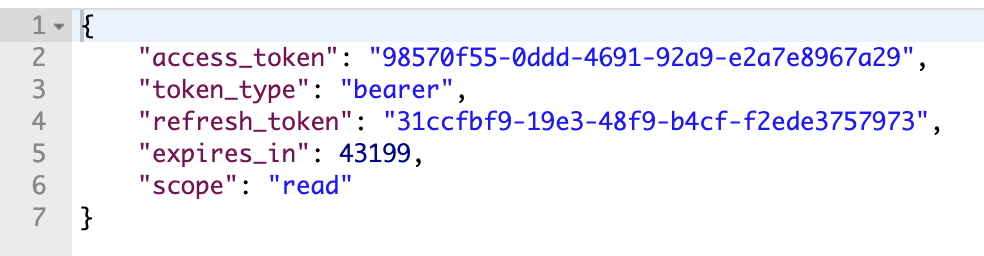
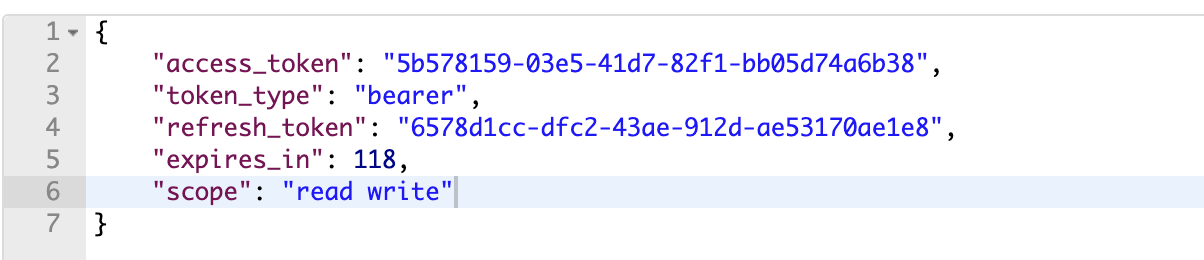
update post

diff --git a/source/_posts/oauth-spring-demo.md b/source/_posts/oauth-spring-demo.md
@@ -1,15 +1,15 @@
 ---
-title: OAuth 2 实战（一）- 使用 Spring Security OAuth 实现授权服务器
+title: OAuth 2 实战（一）- 使用 Spring Security 实现资源服务器和授权服务器
 date: 2019-10-29 21:53:19
 categories: 技术笔记
 tags: Authorization
 ---
 
-上两篇笔记把 OAuth 2.0 基本的理论知识都介绍了一下，在本篇笔记中，就让我们一起来用 Spring Security 实现一个简单的 OAuth 2.0 授权服务器吧。
+上两篇笔记把 OAuth 2.0 基本的理论知识都介绍了一下，在本篇笔记中，就让我们一起来实现一个 OAuth 2.0  服务器吧，简单起见，这个服务器既承担**资源服务器**的角色，也承担**授权服务器**的角色。
 
-Spring Security 是 Spring 全家桶中提供的与安全相关一套框架。它对一般 Web 应用都需要的认证和授权这一块的功能进行了封装，使得在一个 Spring 项目中可以非常简便又灵活地根据自身的安全性需求搭建出一套认证和授权流程。
+我们使用 Spring Security 作为底层支持。Spring Security 是 Spring 全家桶中提供的与安全相关一套框架。它对一般 Web 应用都需要的认证和授权这一块的功能进行了封装，使得在一个 Spring 项目中可以非常简便又灵活地根据自身的安全性需求搭建出一套认证和授权流程。
 
-Spring Security OAuth 则是 Spring Security 提供的对 OAuth 的支持（ OAuth 1 和 OAuth 2 都支持）。具体的内容，就让我们边写边说吧～
+Spring Security OAuth 则是 Spring Security 提供的对 OAuth 的支持（ OAuth 1 和 OAuth 2 都支持）。
 
 <!--more-->
 ---
@@ -85,8 +85,11 @@ public class SecurityConfig extends WebSecurityConfigurerAdapter {
 ```
 
 ---
-## Step 3 - 授权服务器配置
+
 我们知道 OAuth 2.0 中包含了两类服务器角色，一个是授权服务器，一个是资源服务器。针对这两类角色，Spring Security OAuth 分别提供了单独的启动和配置接口。
+
+---
+## Step 3 - 授权服务器配置
 
 通过使用 `@EnableAuthorizationServer` 注解，并实现 `AuthorizationServerConfigurer` 接口以完成授权服务器的配置，可以将应用实现为一个授权服务器。
 
@@ -173,8 +176,51 @@ public AuthenticationManager authenticationManagerBean() throws Exception {
 ```
 
 ---
-## Step 4 - 初见成果
-到此为止，我们实现一个授权服务器的基本工作就都完成了，此时启动应用，它就是一个运行中的授权服务器，默认运行在 `localhost:8080`。
+## Step 4 - 资源服务器配置
+通过使用 `@EnableResourceServer` 注解，并实现 `ResourceServerConfigurer` 接口以完成授权服务器的配置，可以将应用实现为一个资源服务器。
+
+资源服务器通过验证 Access Token 保护对资源的访问。因此，资源服务器最主要的配置内容就是访问控制。
+在 `ResourceServerConfigurer` 中提供了两个配置方法：
+* **ResourceServerSecurityConfigurer** - 用来配置所有跟资源服务器相关的内容，比如 `ResourceServerTokenServices`，`resourceId` 等。
+    * `ResourceServerTokenServices` - 对 Access Token 的解析和验证是由授权过程中非常重要的另一半工作，资源服务器将这部分工作交给 `ResourceServerTokenServices` 来做。对于资源服务器和授权服务器是同一台服务器的情况，我们基本不需要做额外的配置，Spring Security OAuth 默认注册了一个 `DefaultTokenServices` 实例。如果资源服务器和授权服务器不是同一台，那么我们就需要自己配置合适的 `ResourceServerTokenServices` 以保证资源服务器能“正确理解”授权服务器生成的 Access Token。`RemoteTokenServices` 是 Spring OAuth 提供的一个替代方式，它使得资源服务器可以向授权服务器发送一个 `/oauth/check_token` 请求来验证和解析 Access Token。
+* **HttpSecurity** - 用来配置对资源的访问控制规则。默认设置下，所有非 `/oauth/**` 路经下的资源都是被保护的。
+
+示例项目的资源服务器配置如下：
+```java
+@Configuration
+@EnableResourceServer
+public class ResourceServerConfig extends ResourceServerConfigurerAdapter {
+
+    private static final String DEMO_RESOURCE_ID = "demo";
+
+    @Override
+    public void configure(ResourceServerSecurityConfigurer resources) throws Exception {
+        resources.resourceId(DEMO_RESOURCE_ID).stateless(false);
+    }
+
+    @Override
+    public void configure(HttpSecurity http) throws Exception {
+        // @formatter:off
+        // Since we want the protected resources to be accessible in the UI as well we need
+        // session creation to be allowed (it's disabled by default in 2.0.6)
+        http.sessionManagement()
+                .sessionCreationPolicy(SessionCreationPolicy.IF_REQUIRED)
+            .and()
+            .requestMatchers()
+                .antMatchers("/api/**")
+            .and()
+            .authorizeRequests()
+                .antMatchers("/api/**").access("#oauth2.hasScope('read') or (!#oauth2.isOAuth() and hasRole('ROLE_USER'))");
+        // @formatter:on
+    }
+}
+```
+
+我们对 `/api/**` 路经下的资源进行了保护，只有拥有 `read` scope 的客户端才被允许访问。
+
+---
+## Step 5 - 初见成果
+到此为止，我们实现基本工作就都完成了，此时启动应用，它就是一个运行中的授权兼资源服务器，默认运行在 `localhost:8080`。
 
 ### Resource Owner Password 授权
 敲入如下命令，我们就可以以 Resource Owner Password 授权的方式来获得 Access Token：
@@ -191,6 +237,9 @@ curl -X POST \
 
 返回结果如下图所示：
 ![OAuth Password Grant Type Response Screenshot][1]
+
+接下来，我们就可以将返回的 Access Token 放到请求的 Authorization 首部，以 Bearer Token 的形式来访问资源：
+![OAuth Access Token Request][8]
 
 ---
 ### Authorization Code 授权
@@ -215,18 +264,30 @@ curl -X POST \
 
 ![Authorization Code Grant 5][6]
 
-之后客户端就可以使用授权码向授权服务器获取 Access Token。
-
-不过今天已经很晚啦，就把剩下的内容留到下一篇笔记吧～
+到目前为止，localhost:8081 还只是一个普通的 Spring Boot 项目，我们还没有将其实现为 OAuth 2.0 客户端，所以它还不知道要怎么获取 Access Token。
 
 ---
 
-嗷，看来不能在出去玩耍之前结束这个系列了呢。（都是拖延症惹的祸 (；´Д\`A)
+可是，此刻真的很想提前体验一把完整的 **获得授权 - 获取 Access Token - 访问资源** 的这个过程呢，没关系，我们还有 Postman。
+
+使用 Postman 向资源服务器请求资源，并选择认证模式为 OAuth 2，然后我们可以在 Get New Access Token 里配置获取 Token 需要的信息，如下所示：
+![Postman Get Access Token Configuration][9]
+
+点击 Request Token 获取 Access Token，然后发送请求，Postman 就可以作为一个 OAuth 2 客户端访问我们的资源服务器了。
+结果如下图所示：
+![Postman as OAuth 2 Client][10]
+
+---
+
+到此为止，我们的 OAuth 2 服务器已经运转起来，那么，OAuth 2 客户端又要如何实现呢？
+
+未完待续～
 
 ---
 
 **参考资料**
 * [Spring - OAuth 2 Developers Guide](https://projects.spring.io/spring-security-oauth/docs/oauth2.html)
+* [How to Secure REST API using Spring Security and OAuth2 – part 3](http://sivatechlab.com/secure-rest-api-using-spring-security-oauth2-part-3/)
 
   [1]: /uploads/images/oauth-password-response.png
   [2]: /uploads/images/oauth-code-grant-1.png
@@ -235,6 +296,9 @@ curl -X POST \
   [5]: /uploads/images/oauth-code-grant-4.png
   [6]: /uploads/images/oauth-code-grant-5.png
   [7]: /uploads/images/oauth-code-grant-6.png
+  [8]: /uploads/images/oauth-request-resource.png
+  [9]: /uploads/images/oauth-postman-request-token.png
+  [10]: /uploads/images/oauth-postman-client.png
 
 
 
